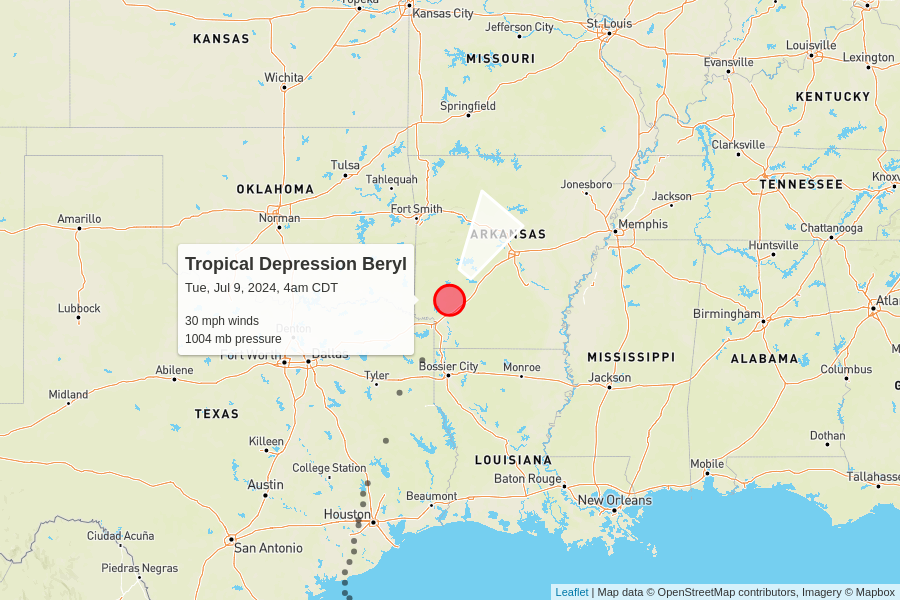
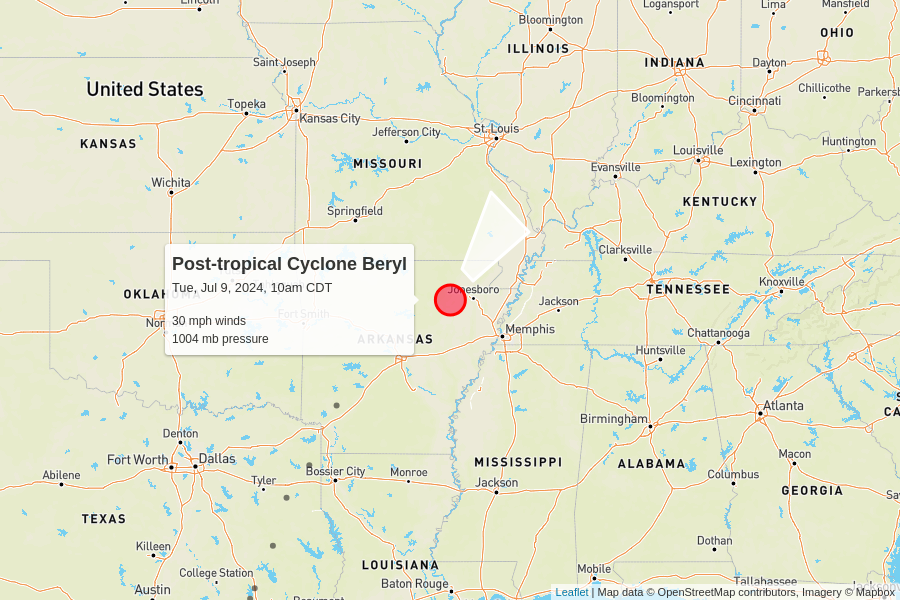
automatic update

diff --git a/docs/index.html b/docs/index.html
@@ -101,8 +101,8 @@
       <tr>
         <td colspan="6" class="storm category-0" >
           <h2>
-            Tropical Depression Beryl
-            <p class="updated">last updated <span data-time>2024-07-09T09:00:00.000Z</span></p>
+            Post-tropical Cyclone Beryl
+            <p class="updated">last updated <span data-time>2024-07-09T15:00:00.000Z</span></p>
           </h2>
         </td>
       </tr>
@@ -117,12 +117,12 @@
       </tr>
       <tr>
         <td class="spacer"></td>
-        <td>30 mph<br>-5 mph since last update</td>
-        <td>1004 mb<br>+5 mb since last update</td>
+        <td>30 mph<br>0 mph since last update</td>
+        <td>1004 mb<br>0 mb since last update</td>
         <td>
-          23 mph to the northeast
+          25 mph to the northeast
           <br/>
-          <span style="display: inline-block; font-size: 1.5em; transform: rotate(35deg);">↑</span>
+          <span style="display: inline-block; font-size: 1.5em; transform: rotate(40deg);">↑</span>
         </td>
         <td><a href="https://raw.githubusercontent.com/mgwalker/atlantic-hurricanes/main/data/csv/AL022024.csv">AL022024.csv</a></td>
         <td><a href="https://www.nhc.noaa.gov/archive/2024/BERYL.shtml?">NHC advisories</a></td>
